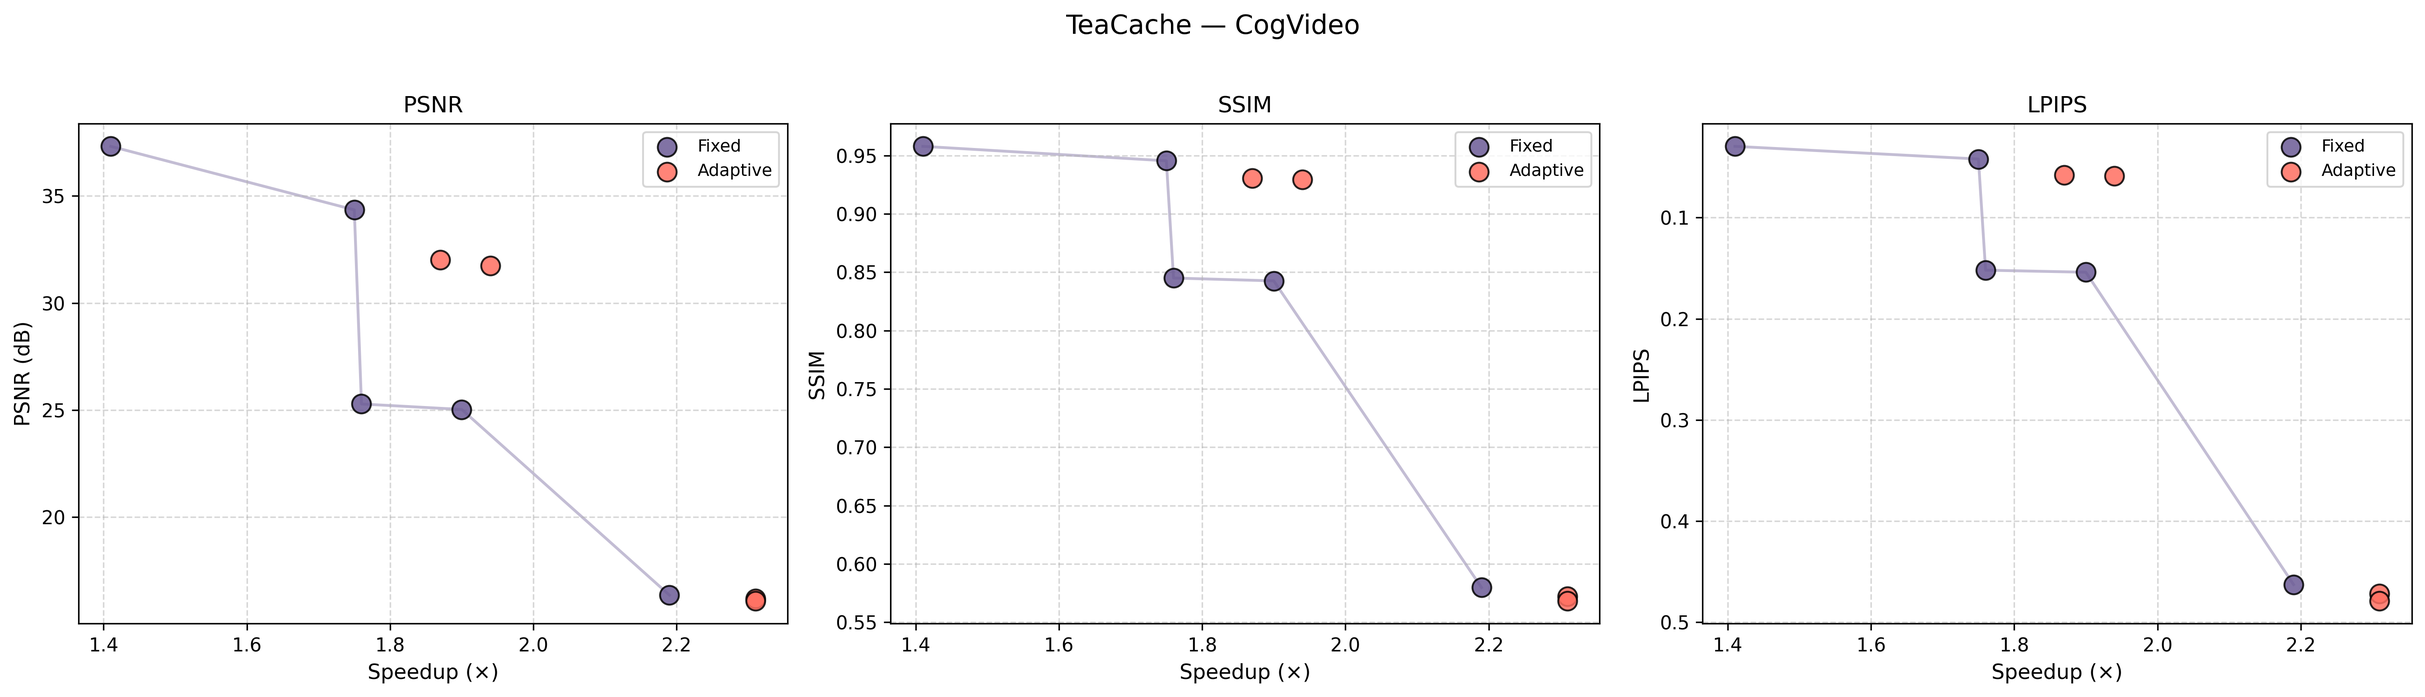
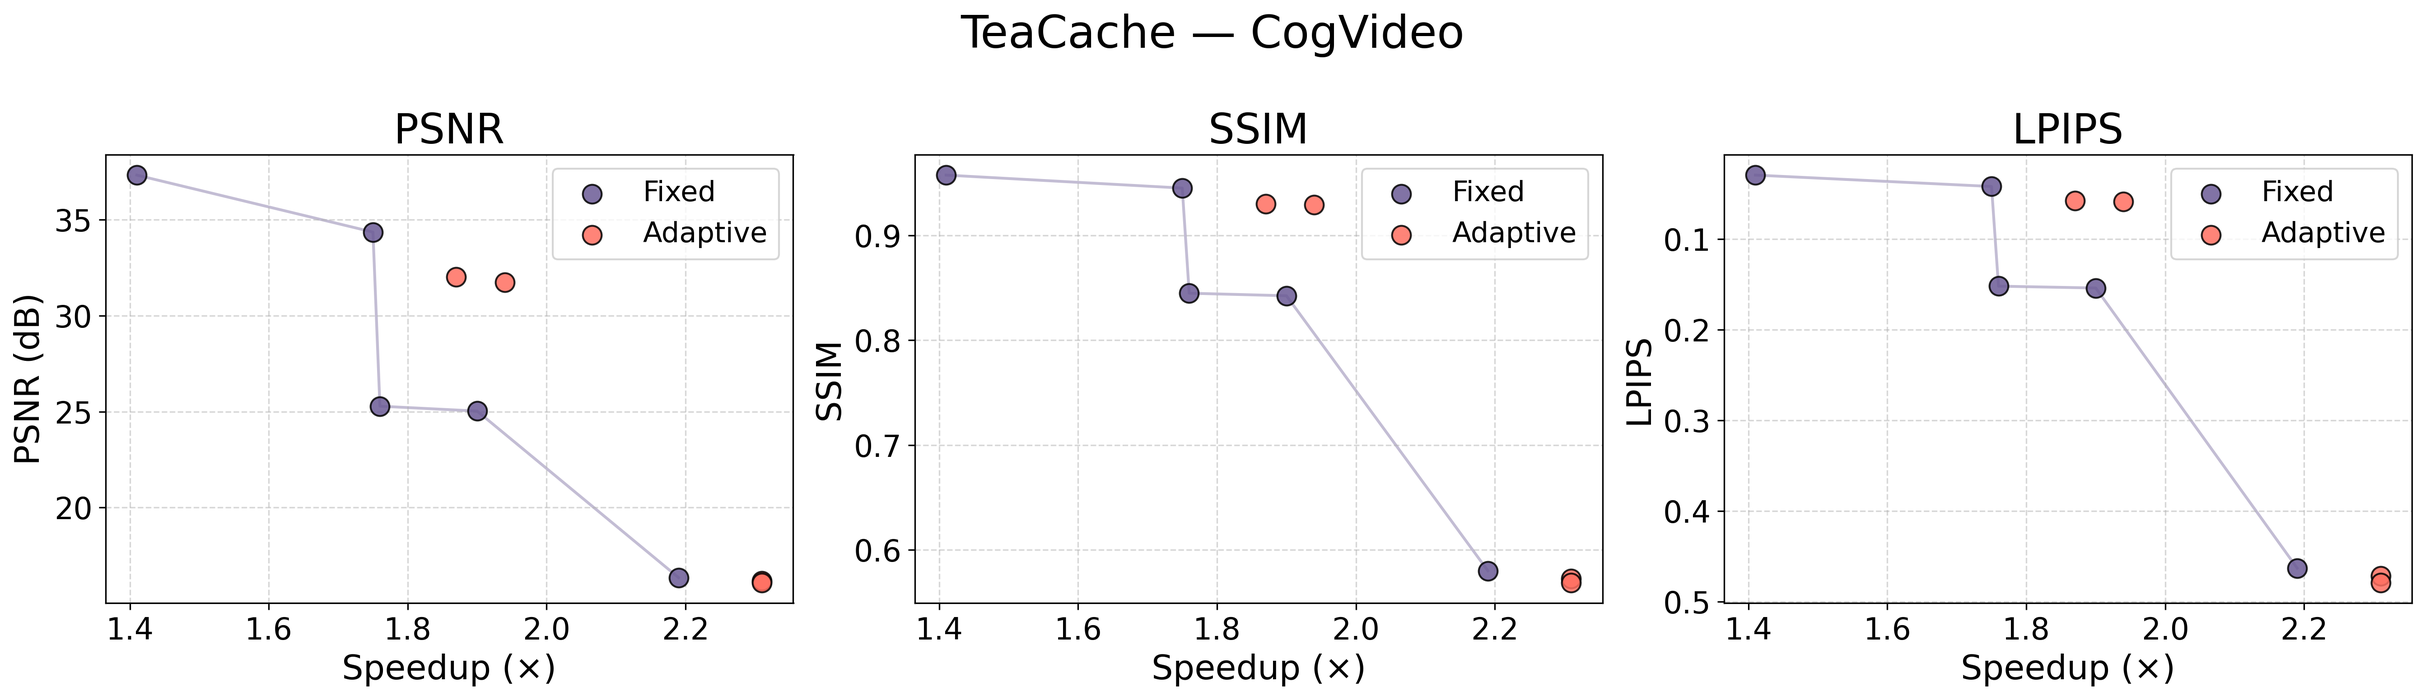
editing after first deadline

diff --git a/analysis/neurips_2025.tex b/analysis/neurips_2025.tex
@@ -35,6 +35,8 @@
 \maketitle
 
 \begin{abstract}
+
+Video diffusion models produce high-quality generations but remain slow at inference due to their sequential denoising procedure. Caching-based acceleration methods address this by reusing intermediate model outputs: leading dynamic approaches such as TeaCache, EasyCache, and DiCache accumulate a drift signal and skip expensive model evaluations when accumulated drift stays below a fixed threshold $\tau$. This threshold controls an apparent tradeoff - raising it yields faster generation at the cost of visual quality, while lowering it preserves quality but sacrifices speed. We show this tradeoff is not fundamental; it is an artifact of holding $\tau$ constant throughout denoising. We identify the existence of \emph{critical steps} - timesteps where the drift signal changes rapidly - and show that applying a low threshold selectively at these steps while caching aggressively elsewhere recovers most of the quality of conservative caching at substantially higher inference speeds. Building on this insight, we propose \system, a lightweight, training-free wrapper that monitors the rate of change of each method's existing drift signal to dynamically switch between a low and a high threshold. \system is signal-agnostic and modular: it requires no retraining and plugs directly into existing dynamic caching methods without modifying their core mechanisms. Evaluated across three caching methods (TeaCache, EasyCache, DiCache) and three open-source video diffusion models (HunyuanVideo, Wan~2.1, CogVideo), \system consistently expands the Pareto frontier of visual quality versus inference speed beyond what any fixed threshold achieves. In particular on TeaCache and HunyuanVideo, \system achieves up to $2.73\times$ speedup over the no-caching baseline, and up to $38\%$ additional speedup over the conservative fixed-threshold baseline with negligible ($<0.3$ dB PSNR, $<0.01$ SSIM, $<0.01$ LPIPS) quality degradation.
 \end{abstract}
 
 
@@ -52,8 +54,7 @@ Due to the significant overhead~\cite{bu2025dicache, zhou2025easycache, liu2025t
 % Early uniform caching strategies used fixed intervals for when to cache, which don't fully utilize the diffusion process's varying behavior and instead treat all timesteps as the same, leading to suboptimal speedups and degraded quality. Later, dynamic caching strategies like TeaCache, EasyCache, and DiCache determine when to cache based on how similar the predicted output will be at each step, adapting the caching schedule to the behavior of the diffusion process.
 % 
 
-\saurabh{Add cites, whenever you name something, add cites}
-Several of these dynamic caching strategies - such as TeaCache\cite{teacache}, EasyCache, and DiCache - share a common structure: they use an accumulated drift metric, wherein these methods accumulate the 
+Several of these dynamic caching strategies - such as TeaCache~\cite{liu2025teacache}, EasyCache~\cite{zhou2025easycache}, and DiCache~\cite{bu2025dicache} - share a common structure: they use an accumulated drift metric, wherein these methods accumulate the 
 estimated change in model output. If this accumulated drift metric  
 % . At each step, they add their estimate of how much the model output just changed. If this 
 accumulated drift is below a user-provided threshold, they skip the expensive model run and reuse the previous output with some correction. If the accumulated drift exceeds the threshold, they run the full model and reset the accumulated drift to zero.
@@ -63,7 +64,7 @@ Choosing this threshold presents a seemingly inherent tradeoff between output qu
 
 This raises a fundamental question: \textit{is this tradeoff between output quality and inference latency actually fundamental?}. In this work, we show that it is not. It is instead an artifact of using a fixed threshold throughout the sequential denoising procedure. When the threshold is chosen adaptively, both output quality and inference latency can be improved relative to any fixed-threshold dynamic caching method. Figure~\ref{fig:pareto-good} shows that the dynamic Pareto frontier can be pushed beyond.
 
-\begin{figure}[ht]
+\begin{figure}[t]
     \centering
     \includegraphics[width=1\linewidth]{Styles//pareto_plots/pareto_wan_dicache.png}
     \caption{DiCache on Wan~2.1. Our adaptive thresholding expands the Pareto frontier beyond any fixed-threshold configuration, achieving better quality at the same or lower latency.}
@@ -71,12 +72,12 @@ This raises a fundamental question: \textit{is this tradeoff between output qual
 \end{figure}
 
 We attribute the power of adaptive threshold schemes to the existence of critical steps in the sequential denoising procedure. By avoiding aggressive caching during these critical steps, our method mitigates the quality loss that fixed-threshold dynamic caching methods typically exhibit. This means one can design an adaptive scheme that identifies critical steps and adjusts the threshold accordingly.
-
 Based on these findings, we propose \system, a simple but powerful adaptive threshold caching mechanism that generalizes across different dynamic caching methods and models, while imposing low computational overhead. \system examines the second derivative of the respective method's metric to detect critical steps and adjust thresholds dynamically, improving performance without sacrificing output quality.
 
 
 
-Our experiments show that \system achieves improved inference latency while maintaining output quality on video generation tasks. In particular, \system achieves \saurabh{fill this} [results].
+Our experiments show that \system achieves improved inference latency while maintaining output quality on video generation tasks. In particular on TeaCache and HunyuanVideo, \system achieves up to $2.73\times$ speedup over the no-caching baseline, and up to $38\%$ additional speedup over the conservative fixed-threshold baseline with negligible ($<0.3$ dB PSNR, $<0.01$ SSIM, $<0.01$ LPIPS) quality degradation.
+
 We summarize our contributions below:
 \begin{itemize}
     \item We identify the existence of critical steps in the sequential denoising procedure and show that video generation caching methods must account for them.
@@ -90,18 +91,19 @@ We summarize our contributions below:
 \section{Related Work}
 
 \paragraph{Diffusion Model.}
-Diffusion models demonstrated impressive capability to generate content with high quality and diversity. Early solutions like Stable Diffusion~\cite{rombach2022ldm} and SDXL~\cite{podell2023sdxl} achieved high quality image generation with the U-Net architecture. These solutions also inspired video generation models~\cite{guo2023animatediff, chen2024videocrafter2, blattmann2023svd}. Despite these successes, the U-Net architecture has limited scalability, which hinders training and deployment of large scale models with better quality. To overcome this, recent diffusion models have widely adopted the Diffusion Transformer as their backbone for better scalability and flexibility~\cite{esser2024scaling, blackforestlabs2024flux, chen2023pixart, peebles2023scalable}.
+While U-Net-based diffusion models like Stable Diffusion~\cite{rombach2022ldm} and SDXL~\cite{podell2023sdxl} successfully catalyzed high-quality image and video generation~\cite{guo2023animatediff, chen2024videocrafter2, blattmann2023svd}, their limited architectural capacity bottlenecks the training and deployment of massive models. To eliminate this constraint, recent frameworks have rapidly shifted toward the Diffusion Transformer (DiT) backbone, exploiting its structural flexibility to support next-generation foundation models~\cite{esser2024scaling, blackforestlabs2024flux, chen2023pixart, peebles2023scalable}. However, despite their theoretical promise, scaling these DiT backbones introduces substantial computational overhead.
 
 \paragraph{Diffusion Model Acceleration.}
-Despite the achievements diffusion models have made, their inference speed remains slow, especially as model capacity and complexity increase. This poses a challenge for practical applications. To address this challenge, several acceleration methods have emerged. These include efficient attention~\cite{dao2022flashattention, li2024svdquant}, sparse attention~\cite{xi2025sparsevideogen, ren2025grouping}, model distillation~\cite{meng2023distillation, sauer2024adversarial, wang2023videolcm}, model quantization~\cite{li2024svdquant}, improved SDE or ODE solvers~\cite{lu2022dpmsolver}, and caching-based feature reuse strategies, which we discuss in detail below.
+As DiT backbones scale in capacity and complexity, their runtime increases proportionately, exacerbating the notoriously slow inference speeds of diffusion models and impeding real-world deployment. To alleviate this latency bottleneck, several acceleration paradigms have emerged. Recent work has extensively explored efficient attention~\cite{dao2022flashattention, li2024svdquant}, sparse attention~\cite{xi2025sparsevideogen, ren2025grouping}, distillation~\cite{meng2023distillation, sauer2024adversarial, wang2023videolcm}, quantization~\cite{li2024svdquant}, and improved SDE/ODE solvers~\cite{lu2022dpmsolver}. Alongside these methods, caching-based feature reuse strategies offer a particularly compelling, orthogonal path forward, which we detail next.
 
-\paragraph{Caching based feature reuse strategies.}
+
+\noindent\underline{\emph{Caching based feature reuse strategies.}}
 Caching methods have gained attention recently due to their lightweight nature. DeepCache~\cite{xu2018deepcache} and Faster Diffusion~\cite{li2023fasterdiffusion} reuse U-Net features across timesteps to reduce computational redundancy. FORA~\cite{selvaraju2024fora} and $\Delta$-DiT~\cite{chen2024deltadit} extend this idea to transformer-based architectures. PAB~\cite{zhao2024pab} broadcasts attention features to later timesteps in a pyramid-style method based on various block characteristics. AdaCache~\cite{kahatapitiya2024adacache} modifies residual reuse methods based on content complexity. FasterCache~\cite{lv2024fastercache} proposes to cache for both the conditional and unconditional branch of Classifier Free Guidance~\cite{ho2022cfg}. TeaCache~\cite{liu2025teacache} uses a calibrated polynomial estimator to predict output changes based on input changes. EasyCache~\cite{zhou2025easycache} replaces this polynomial function with a transformation law observed empirically. DiCache~\cite{bu2025dicache} uses shallow features as lightweight probes, using feature variation to trigger recomputation and linear interpolation for multi-step cache fusion.
 
 Unlike prior methods that propose new signals or architectures for deciding when to cache, our approach is signal-agnostic and complementary to existing works such as TeaCache, EasyCache, and DiCache. We identify a shared limitation across these methods, specifically the use of a single fixed threshold, and propose a lightweight framework that uses the rate of change of the existing signal to dynamically switch between a low and high threshold, achieving a better quality-speed tradeoff without modifying the underlying caching mechanism.
 
-\section{Method}
-
+\section{\system}
+In this section we introduce \system, a method for adaptively varying caching frequency.
 \subsection{Preliminaries}
 
 \paragraph{Denoising Diffusion Models.}
@@ -131,7 +133,7 @@ Despite these differences, all three methods share a critical limitation: the fi
 
 \subsection{Analysis}
 
-Preliminary analysis of the $\Delta$TEMNI metric from Tea Cache reveals two critical properties of caching signals. First, we observe that while these metrics remain relatively consistent across diverse prompts, as illustrated in Figure~\ref{fig:compare_prompts}, they vary significantly between different models. Second, the structural behavior of these signals is model-dependent, as shown in Figure~\ref{fig:compare_models}; specifically, Hunyuan Video and Wan 2.1 exhibit a characteristic U-shaped pattern, whereas CogVideo and Mochi demonstrate a distinctively different distribution. Based on these observations, the experimental section evaluates the validity of our proposed solution across all four models (Hunyuan Video, Wan 2.1, CogVideo, and Mochi) to ensure robustness against these varying signal patterns.
+Preliminary analysis of the $\Delta$TEMNI metric from Tea Cache reveals two critical properties of caching signals. First, we observe that while these metrics remain relatively consistent across diverse prompts, as illustrated in Figure~\ref{fig:compare_prompts}, they vary significantly between different models. Second, the structural behavior of these signals is model-dependent, as shown in Figure~\ref{fig:compare_models}; specifically, Hunyuan Video and Wan 2.1 exhibit a characteristic U-shaped pattern, whereas CogVideo and Mochi demonstrate a distinctively different distribution. Based on these observations, we evaluate our proposed solution across three models (HunyuanVideo, Wan~2.1, and CogVideo), which together cover both signal pattern types and ensure robustness against their varying behaviors.
 
 \begin{figure}[ht]
     \centering
@@ -150,7 +152,7 @@ Preliminary analysis of the $\Delta$TEMNI metric from Tea Cache reveals two crit
 \subsection{Adaptive Threshold Caching}
 
 
-\textbf{[SOLUTION NAME]} extends the single-threshold framework of methods like TeaCache, EasyCache, and DiCache with a dual-threshold strategy. Rather than applying a single fixed threshold $\tau$, we maintain two thresholds: a high threshold $\tau_{\text{high}}$ and a low threshold $\tau_{\text{low}}$. The active threshold is selected based on the rate of change of the underlying signal of dynamic caching method ($\Delta$TEMNI for TeaCache, $k \times \Delta\text{input} / \|v_{t-1}\|$ for EasyCache, and $\Delta$probe features for DiCache) 
+\system extends the single-threshold framework of methods like TeaCache, EasyCache, and DiCache with a dual-threshold strategy. Rather than applying a single fixed threshold $\tau$, we maintain two thresholds: a high threshold $\tau_{\text{high}}$ and a low threshold $\tau_{\text{low}}$. The active threshold is selected based on the rate of change of the underlying signal of dynamic caching method ($\Delta$TEMNI for TeaCache, $k \times \Delta\text{input} / \|v_{t-1}\|$ for EasyCache, and $\Delta$probe features for DiCache) 
 
 When the rate of change is within [$-\delta$, $\delta$], indicating a stable phase of the diffusion process, we apply $\tau_{\text{high}}$, permitting more aggressive caching. When the rate of change escapes this [$-\delta$, $\delta$] safe zone, indicating a more dynamic and quality-critical phase, we apply $\tau_{\text{low}}$, restricting caching to preserve output fidelity. 
 
@@ -193,16 +195,16 @@ This reflects the key observation that certain parts of the diffusion process ar
 \subsection{Experimental Setup}
 
 \paragraph{Base models.}
-We evaluate on 3 open-source video generation diffusion models: HunyuanVideo T2V 720P, Wan 2.1 T2V 1.3B, and CogVideo X 1.5-5B.
+We evaluate on 3 open-source video generation diffusion models: HunyuanVideo T2V 720P~\cite{kong2024hunyuanvideo}, Wan 2.1 T2V 1.3B~\cite{wang2025wan}, and CogVideo X 1.5-5B~\cite{hong2023cogvideo}.
 
 \paragraph{Compared methods.}
-We apply our adaptive threshold framework on top of three base caching methods: TeaCache (evaluated on HunyuanVideo, Wan 2.1, CogVideo), EasyCache (evaluated on HunyuanVideo, Wan 2.1), and DiCache (evaluated on HunyuanVideo, Wan 2.1). For each method--model combination, we compare a no-caching baseline, multiple fixed-threshold variants spanning a low-to-high range, and our adaptive dual-threshold variant \textbf{[SOLUTION NAME]}.
+We apply our adaptive threshold framework on top of three base caching methods: TeaCache (evaluated on HunyuanVideo, Wan 2.1, CogVideo), EasyCache (evaluated on HunyuanVideo, Wan 2.1), and DiCache (evaluated on HunyuanVideo, Wan 2.1). EasyCache and DiCache are not evaluated on CogVideo because neither method provides an official implementation for that model; we restrict our evaluation to officially supported configurations to avoid confounding results from self-implemented ports. For each method--model combination, we compare a no-caching baseline, the fixed-threshold method with several threshold values spanning a low-to-high range, and our adaptive dual-threshold variant \system with several low / high thresholds values.
 
 \paragraph{Evaluation metrics.}
-Following TeaCache, we evaluate along two dimensions: inference efficiency and visual quality. For inference efficiency, we report inference latency. For visual quality, we use LPIPS, PSNR, and SSIM. LPIPS, PSNR, and SSIM compare cached-method outputs against the no-caching baseline.
+Following TeaCache, we evaluate along two dimensions: inference efficiency and visual quality. For inference efficiency, we report inference latency and speedup, defined as the ratio of the no-caching baseline latency to the method latency for the same model. For visual quality, we use LPIPS, PSNR, and SSIM. LPIPS, PSNR, and SSIM compare cached-method outputs against the no-caching baseline.
 
 \paragraph{Implementation details.}
-All experiments were carried out on NVIDIA A100 80GB PCIe GPUs with PyTorch. We selected 33 prompts from VBench's prompt set, 3 prompts for each of 11 dimension groups, covering all 16 VBench dimensions (some dimensions share prompts). For each model, we generated $33 \times 4 = 132$ videos, using a fixed seed throughout.
+All experiments were carried out on NVIDIA A100 80GB PCIe GPUs with PyTorch. We selected 33 prompts from VBench's~\cite{huang2024vbench} prompt set, 3 prompts for each of 11 dimension groups, covering all 16 VBench dimensions (some dimensions share prompts). For each model, we generated $33 \times 4 = 132$ videos, using a fixed seed throughout.
 
 \subsection{Main Results}
 
@@ -267,7 +269,6 @@ All experiments were carried out on NVIDIA A100 80GB PCIe GPUs with PyTorch. We 
 \end{tabular}
 \end{table*}
 
-
 The Pareto plots in Appendix~\ref{sec:appendix-pareto} show the efficiency and visual quality tradeoff offered by fixed-threshold methods, and how our adaptive dual-threshold method consistently expands the fixed-threshold Pareto frontier for each of the 7 caching method and diffusion model combinations.
 
 Table~\ref{tab:main_results} shows the efficiency and visual quality of notable adaptive mode points for each feature caching method and diffusion model combination, comparing them to the baseline mode, the fixed-threshold mode using the low threshold of the adaptive mode, and the fixed-threshold mode using the high threshold of the adaptive mode.
@@ -288,7 +289,7 @@ For EasyCache and Wan~2.1, our adaptive mode achieves a speedup of 1.92$\times$,
 
 Figure~\ref{fig:pareto-easycache} shows how several of \system's adaptive threshold modes surpass the Pareto frontier curves for both diffusion models when used with EasyCache.
 
-We also note that EasyCache, by forcing the user to run several full diffusion steps for the first few steps, already supports our main idea: varying the threshold across the diffusion process---in this case using a threshold of 0 (full diffusion) at the beginning and a higher threshold later---leads to a better quality--efficiency tradeoff.
+We also note that EasyCache, by forcing the user to run several full diffusion steps for the first few steps, already supports our main idea: varying the threshold across the diffusion process - in this case using a threshold of 0 (full diffusion) at the beginning and a higher threshold later - leads to a better quality--efficiency tradeoff.
 
 \paragraph{DiCache.}
 For DiCache and HunyuanVideo, the adaptive mode achieves a speedup of 2.04$\times$, capturing more of the high-threshold fixed mode's speedup of 3.02$\times$ than the low-threshold fixed mode's speedup of 1.92$\times$, while achieving visual quality very close to the low-threshold mode and much better than the high-threshold mode.
@@ -299,8 +300,7 @@ Figure~\ref{fig:pareto-dicache} in Appendix~\ref{sec:appendix-pareto} shows how 
 
 \section{Conclusion}
 
-We proposed \textbf{[SOLUTION NAME]}, a dynamic dual-threshold caching method for accelerating video diffusion model inference. By applying a high caching threshold during stable phases of the diffusion process and a low threshold during quality-critical phases (identified via the rate of change of the accumulated TEMNI delta), our method improves the Pareto frontier in the video quality vs.\ generation speed space over fixed-threshold TeaCache. Experiments across four open-source video generation models confirm that \textbf{[SOLUTION NAME]} achieves near-low-threshold visual quality with substantially higher inference speedup.
-
+We proposed \system, a dynamic dual-threshold caching method for accelerating video diffusion model inference. By applying a high caching threshold during stable phases of the diffusion process and a low threshold during quality-critical phases (identified via the rate of change of the accumulated TEMNI delta), our method improves the Pareto frontier in the video quality vs.\ generation speed space over fixed-threshold TeaCache. Experiments across three open-source video generation models confirm that \system achieves near-low-threshold visual quality with substantially higher inference speedup.
 
 \begin{ack}
 % Acknowledgments (omitted in anonymized submission).
@@ -476,6 +476,11 @@ Wenyi Hong, Ming Ding, Wendi Zheng, Xinghao Liu, and Jie Tang.
 \newblock Cogvideo: Large-scale pretraining for text-to-video generation via transformers.
 \newblock In \textit{Proceedings of the International Conference on Learning Representations}, 2023.
 
+\bibitem{huang2024vbench}
+Ziqi Huang, Yinan He, Jiashuo Yu, Fan Zhang, Chenyang Si, Yuming Jiang, Yuanhan Zhang, Tianxing Wu, Qingyang Jin, Nattapol Chanpaisit, et al.
+\newblock Vbench: Comprehensive benchmark suite for video generative models.
+\newblock In \textit{Proceedings of the IEEE/CVF Conference on Computer Vision and Pattern Recognition}, pp. 21807--21818, 2024.
+
 \bibitem{kong2024hunyuanvideo}
 Weijie Kong et al.
 \newblock Hunyuanvideo: A systematic framework for large video generative models.
@@ -565,7 +570,7 @@ Figures~\ref{fig:pareto-teacache}--\ref{fig:pareto-dicache} show Pareto frontier
 \begin{figure}[htbp]
     \centering
     \begin{subfigure}[b]{\linewidth}
-        \includegraphics[width=\linewidth]{Styles//pareto_plots/imagpareto_hv_dicache.png}
+        \includegraphics[width=\linewidth]{Styles//pareto_plots/pareto_hv_dicache.png}
         \caption{HunyuanVideo}
         \label{fig:pareto-hv-dicache}
     \end{subfigure}

diff --git a/analysis/plot_pareto_paper.py b/analysis/plot_pareto_paper.py
@@ -293,16 +293,17 @@ def plot_combo(df: pd.DataFrame, title: str, out_path: Path) -> None:
                 zorder=3, label="Adaptive",
             )
 
-        ax.set_xlabel("Speedup (×)", fontsize=11)
-        ax.set_ylabel(ylabel, fontsize=11)
-        ax.set_title(metric.upper(), fontsize=12)
-        ax.legend(loc="upper right", fontsize=9)
+        ax.set_xlabel("Speedup (×)", fontsize=18)
+        ax.set_ylabel(ylabel, fontsize=18)
+        ax.set_title(metric.upper(), fontsize=22)
+        ax.legend(loc="upper right", fontsize=15)
+        ax.tick_params(axis="both", labelsize=16)
         ax.grid(True, linestyle="--", alpha=0.5)
 
         if invert:
             ax.invert_yaxis()
 
-    fig.suptitle(title, fontsize=14, y=1.02)
+    fig.suptitle(title, fontsize=24, y=1.02)
     fig.tight_layout()
     fig.savefig(out_path, dpi=300, bbox_inches="tight")
     plt.close(fig)
